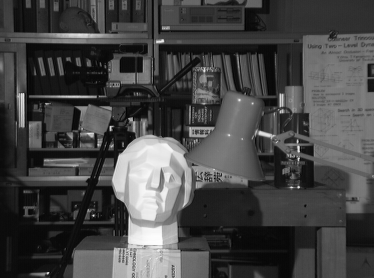
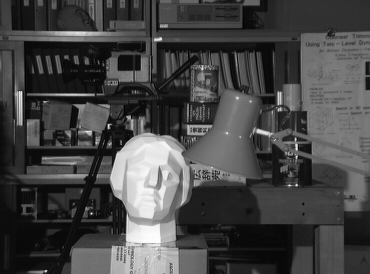
clean up disparity maps

diff --git a/clean_up_disparity.py b/clean_up_disparity.py
@@ -1,0 +1,100 @@
+import cv2
+import matplotlib.pyplot as plt
+from scipy import ndimage
+from skimage import feature
+from scipy.stats import mode
+import numpy as np
+
+def get_block(img, y, x, half_window_size):
+	'''
+	Parameters:
+		img1- 3 channel (row, col, colors) numpy array representing a picture
+		x and y- coordinates of center pixel or block
+		half_window_size-- half the size of the desired block
+	Returns:
+		get_block -- gets the block of (half_window_size * 2 + 1) centered at y, x
+	'''
+	row_start = y - half_window_size
+	row_end = y + half_window_size + 1
+
+	col_start = x - half_window_size
+	col_end = x + half_window_size + 1
+
+	return np.array(img[row_start:row_end, col_start:col_end])
+
+#replace the middle pixel not the whole block
+def set_block(img, y, x, half_window_size, val):
+	'''
+	Parameters:
+		img1- 3 channel (row, col, colors) numpy array representing a picture
+		x and y- coordinates of center pixel or block
+		half_window_size-- half the size of the desired block
+	Returns:
+		get_block -- gets the block of (half_window_size * 2 + 1) centered at y, x
+	'''
+	row_start = y - half_window_size
+	row_end = y + half_window_size + 1
+
+	col_start = x - half_window_size
+	col_end = x + half_window_size + 1
+
+	img[row_start:row_end, col_start:col_end] = val
+
+	return img
+
+#try median
+def median_filter_block(block):
+	'''
+	Parameters:
+		block-- a block of an image
+	Returns:
+		a block of the same size where all pixels are filled with the same number (the most frequently appearing color)
+	'''
+	block[:,:] = mode(block, axis=None)[0]
+	return block
+
+def edge_aware_mode_filter(image, edges, mask_set, window_size):
+	if(window_size==0):
+		return image;
+	[h, w] = image.shape
+	half_window_size = int(window_size/2)
+	for y in range(half_window_size, h-half_window_size):
+		for x in range(half_window_size, w-half_window_size):
+			edge_block = get_block(edges, y, x, half_window_size)
+			if(np.any(edge_block==1) or mask_set[y, x] == True):
+				continue;
+			img_block = get_block(image, y, x, half_window_size)
+			mask_set[y, x] = True
+			image[y, x] = np.median(img_block)
+
+	return edge_aware_mode_filter(image, edges, mask_set, window_size - 1)
+
+def filter_map(map_file, left, right, result, disparity_window_size):
+	'''
+	Parameters:
+		map_file-- name of depth map file to clean up 
+		left-- name of left stereo file used to make the depth map
+		right-- name of right stereo file used to make the depth map
+		disparity_window_size-- window size used to create the depth map, used to crop the combined edge image
+	'''
+	disparity_map = cv2.cvtColor(cv2.imread(map_file), cv2.COLOR_BGR2GRAY);
+	left = cv2.cvtColor(cv2.imread(left), cv2.COLOR_BGR2GRAY);
+	right = cv2.cvtColor(cv2.imread(right), cv2.COLOR_BGR2GRAY);
+
+	half_window_size = int(disparity_window_size/2)
+	[h, w] = right.shape
+
+	edges_left = feature.canny(left, sigma=3)[half_window_size:h-half_window_size, half_window_size:w-half_window_size]
+	edges_right = feature.canny(right, sigma=3)[half_window_size:h-half_window_size, half_window_size:w-half_window_size]
+	edges_disparity = feature.canny(disparity_map, sigma=3)
+	edges_right[edges_left==1] = 1
+	edges_right[edges_disparity==1] = 1
+	edges_both = edges_right
+	
+	filtered_map = edge_aware_mode_filter(disparity_map, edges_both, np.zeros(edges_left.shape), 100)
+
+	plt.imshow(filtered_map, cmap='Greys_r')
+	plt.show()
+
+
+filter_map("./disparity_maps/visible/2006/bowling.png", './data/2006/bowling_L.png', './data/2006/bowling_R.png', 'bowling.png', 15)

diff --git a/disparity_map.py b/disparity_map.py
@@ -102,18 +102,24 @@ def depth_map(left, right, result, window_size, search_size, f, t, is_file = Tru
 
 	[h,w] = im_left.shape;
 
-	depth = np.full((h, w), 256, dtype='uint16');	
+	depth = np.full((h, w), 256, dtype='uint16');
+	
+	disparity = np.zeros((h, w), 'uint8');
+	scale = 255/search_size
+
 	half_window_size = int(window_size/2);
 
 	print("creating disparity map...")
 	for y in range(half_window_size, h-half_window_size):
 		for x in range(half_window_size, w-half_window_size):
 			block = get_block(im_left, y, x, half_window_size)
+			disparity[y, x] = scale = (255 / search_size) * float(distance_to_best_block(block, (y, x), im_right, search_size, half_window_size))
 			depth[y, x] = f * t/float(distance_to_best_block(block, (y, x), im_right, search_size, half_window_size))
 	print("created disparity map!")
 
 	cv2.imwrite("./point_cloud_rgb_data/" + result, im_left[half_window_size:h-half_window_size, half_window_size:w-half_window_size])
 	cv2.imwrite("./disparity_maps/" + result, depth[half_window_size:h-half_window_size, half_window_size:w-half_window_size])
+	cv2.imwrite("./disparity_maps/visible/" + result, disparity[half_window_size:h-half_window_size, half_window_size:w-half_window_size])
 
 	return (depth[half_window_size:h-half_window_size, half_window_size:w-half_window_size], w - (2 * half_window_size), h - (2 * half_window_size))
 
@@ -161,5 +167,5 @@ def display_depth_map(depth_map_file, color_img_file, w, h, fx, fy, cx, cy):
 	visualizer.add_geometry(pcd_from_depth_map)
 	visualizer.show()
 
-depth_map_data = depth_map('./data/2006/tsukuba_L.png', './data/2006/tsukuba_R.png', "2006/tsukuba.png", 10, 15, 588.503, 16.19)
+depth_map_data = depth_map('./data/2006/bowling_L.png', './data/2006/bowling_R.png', "2006/bowling.png", 15, 30, 588.503, 16.19)
 #display_depth_map("./disparity_maps/2006/tsukuba.png", './point_cloud_rgb_data/2006/tsukuba.png', depth_map_data[1], depth_map_data[2], 588.503, 588.503, 119.102, 119.102)

diff --git a/stereo_rectification.py b/stereo_rectification.py
@@ -1,7 +1,7 @@
 import cv2
 import numpy as np
 import matplotlib.pyplot as plt
-import disparity_map.py
+
 I1 = cv2.imread('./data/myL.jpeg');
 I2 = cv2.imread('./data/myR.jpeg');
 
@@ -56,5 +56,7 @@ _, H1, H2 = cv2.stereoRectifyUncalibrated(np.float32(inlier_kp1), np.float32(inl
 stereo_L = cv2.warpPerspective(I1, H1, I1gray.shape[::-1])
 stereo_R = cv2.warpPerspective(I2, H2, I2gray.shape[::-1])
 
-depth_map(stereo_L, stereo_R, "mine.png", 10, 15, 588.503, 16.19)
-display_depth_map("./disparity_maps/2006/tsukuba.png", './point_cloud_rgb_data/2006/tsukuba.png', depth_map_data[1], depth_map_data[2], 588.503, 588.503, 119.102, 119.102)
+plt.imshow(stereo_L)
+plt.show()
+plt.imshow(stereo_R)
+plt.show()
